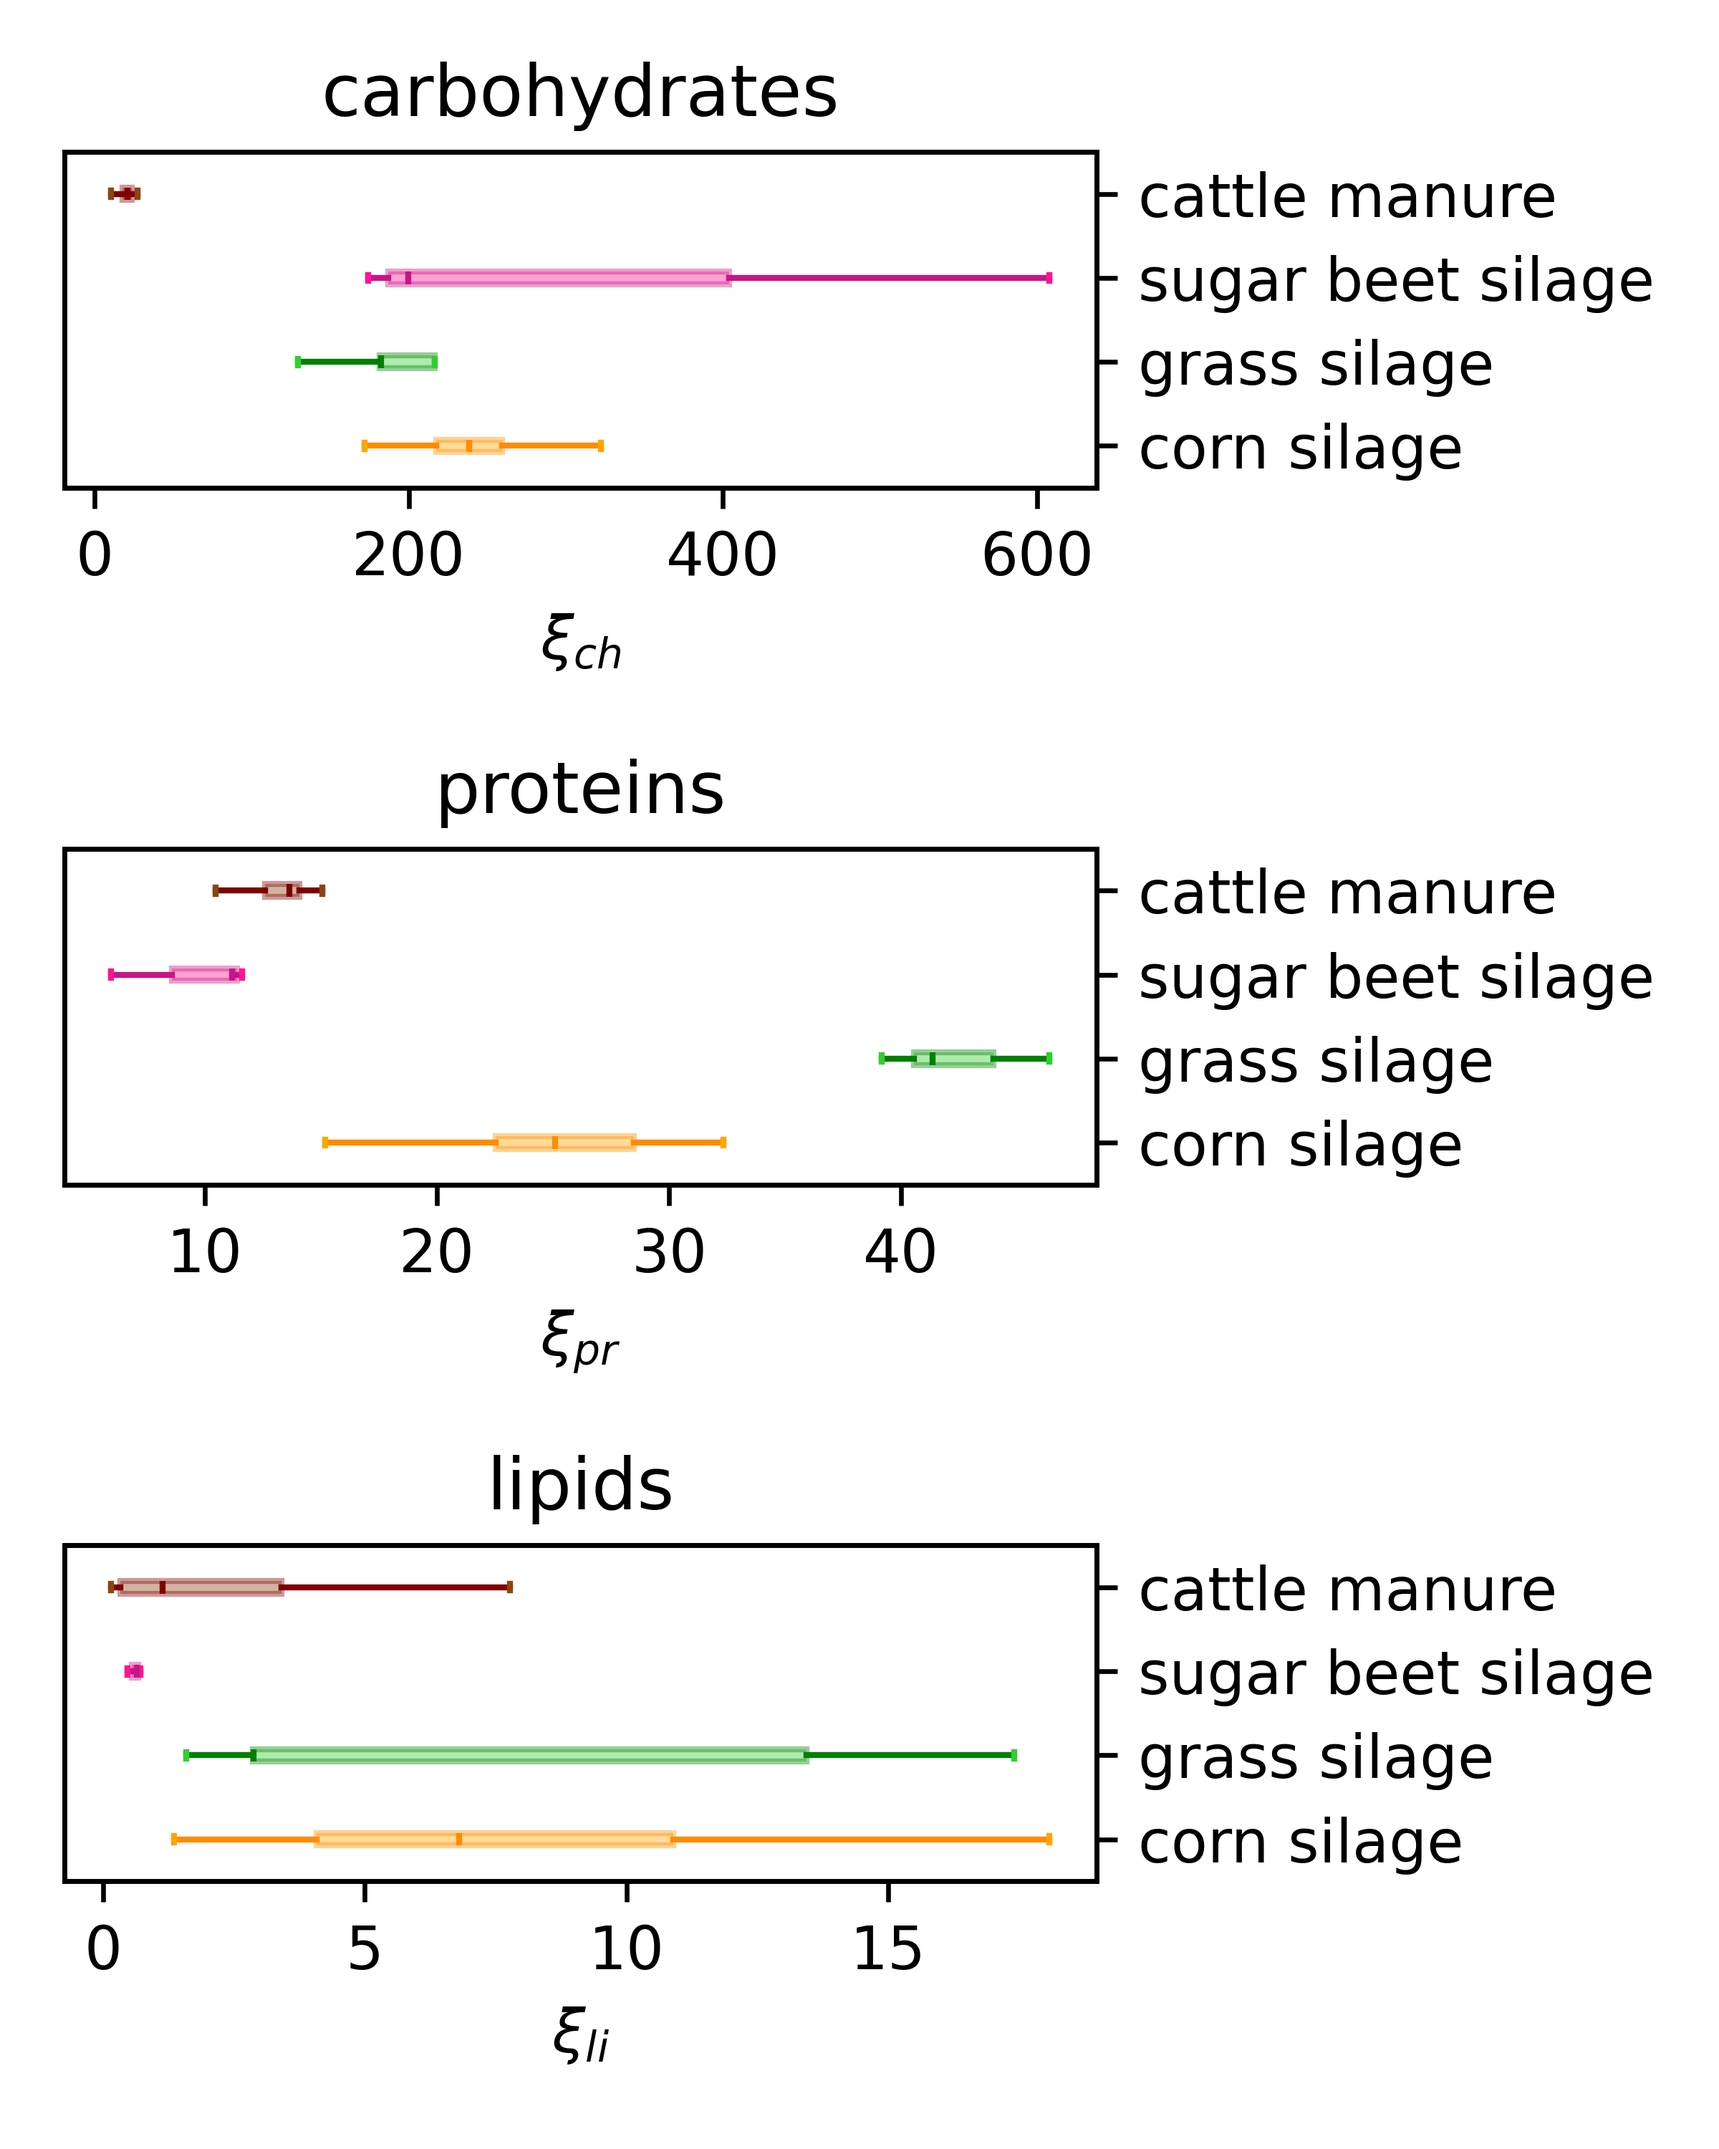
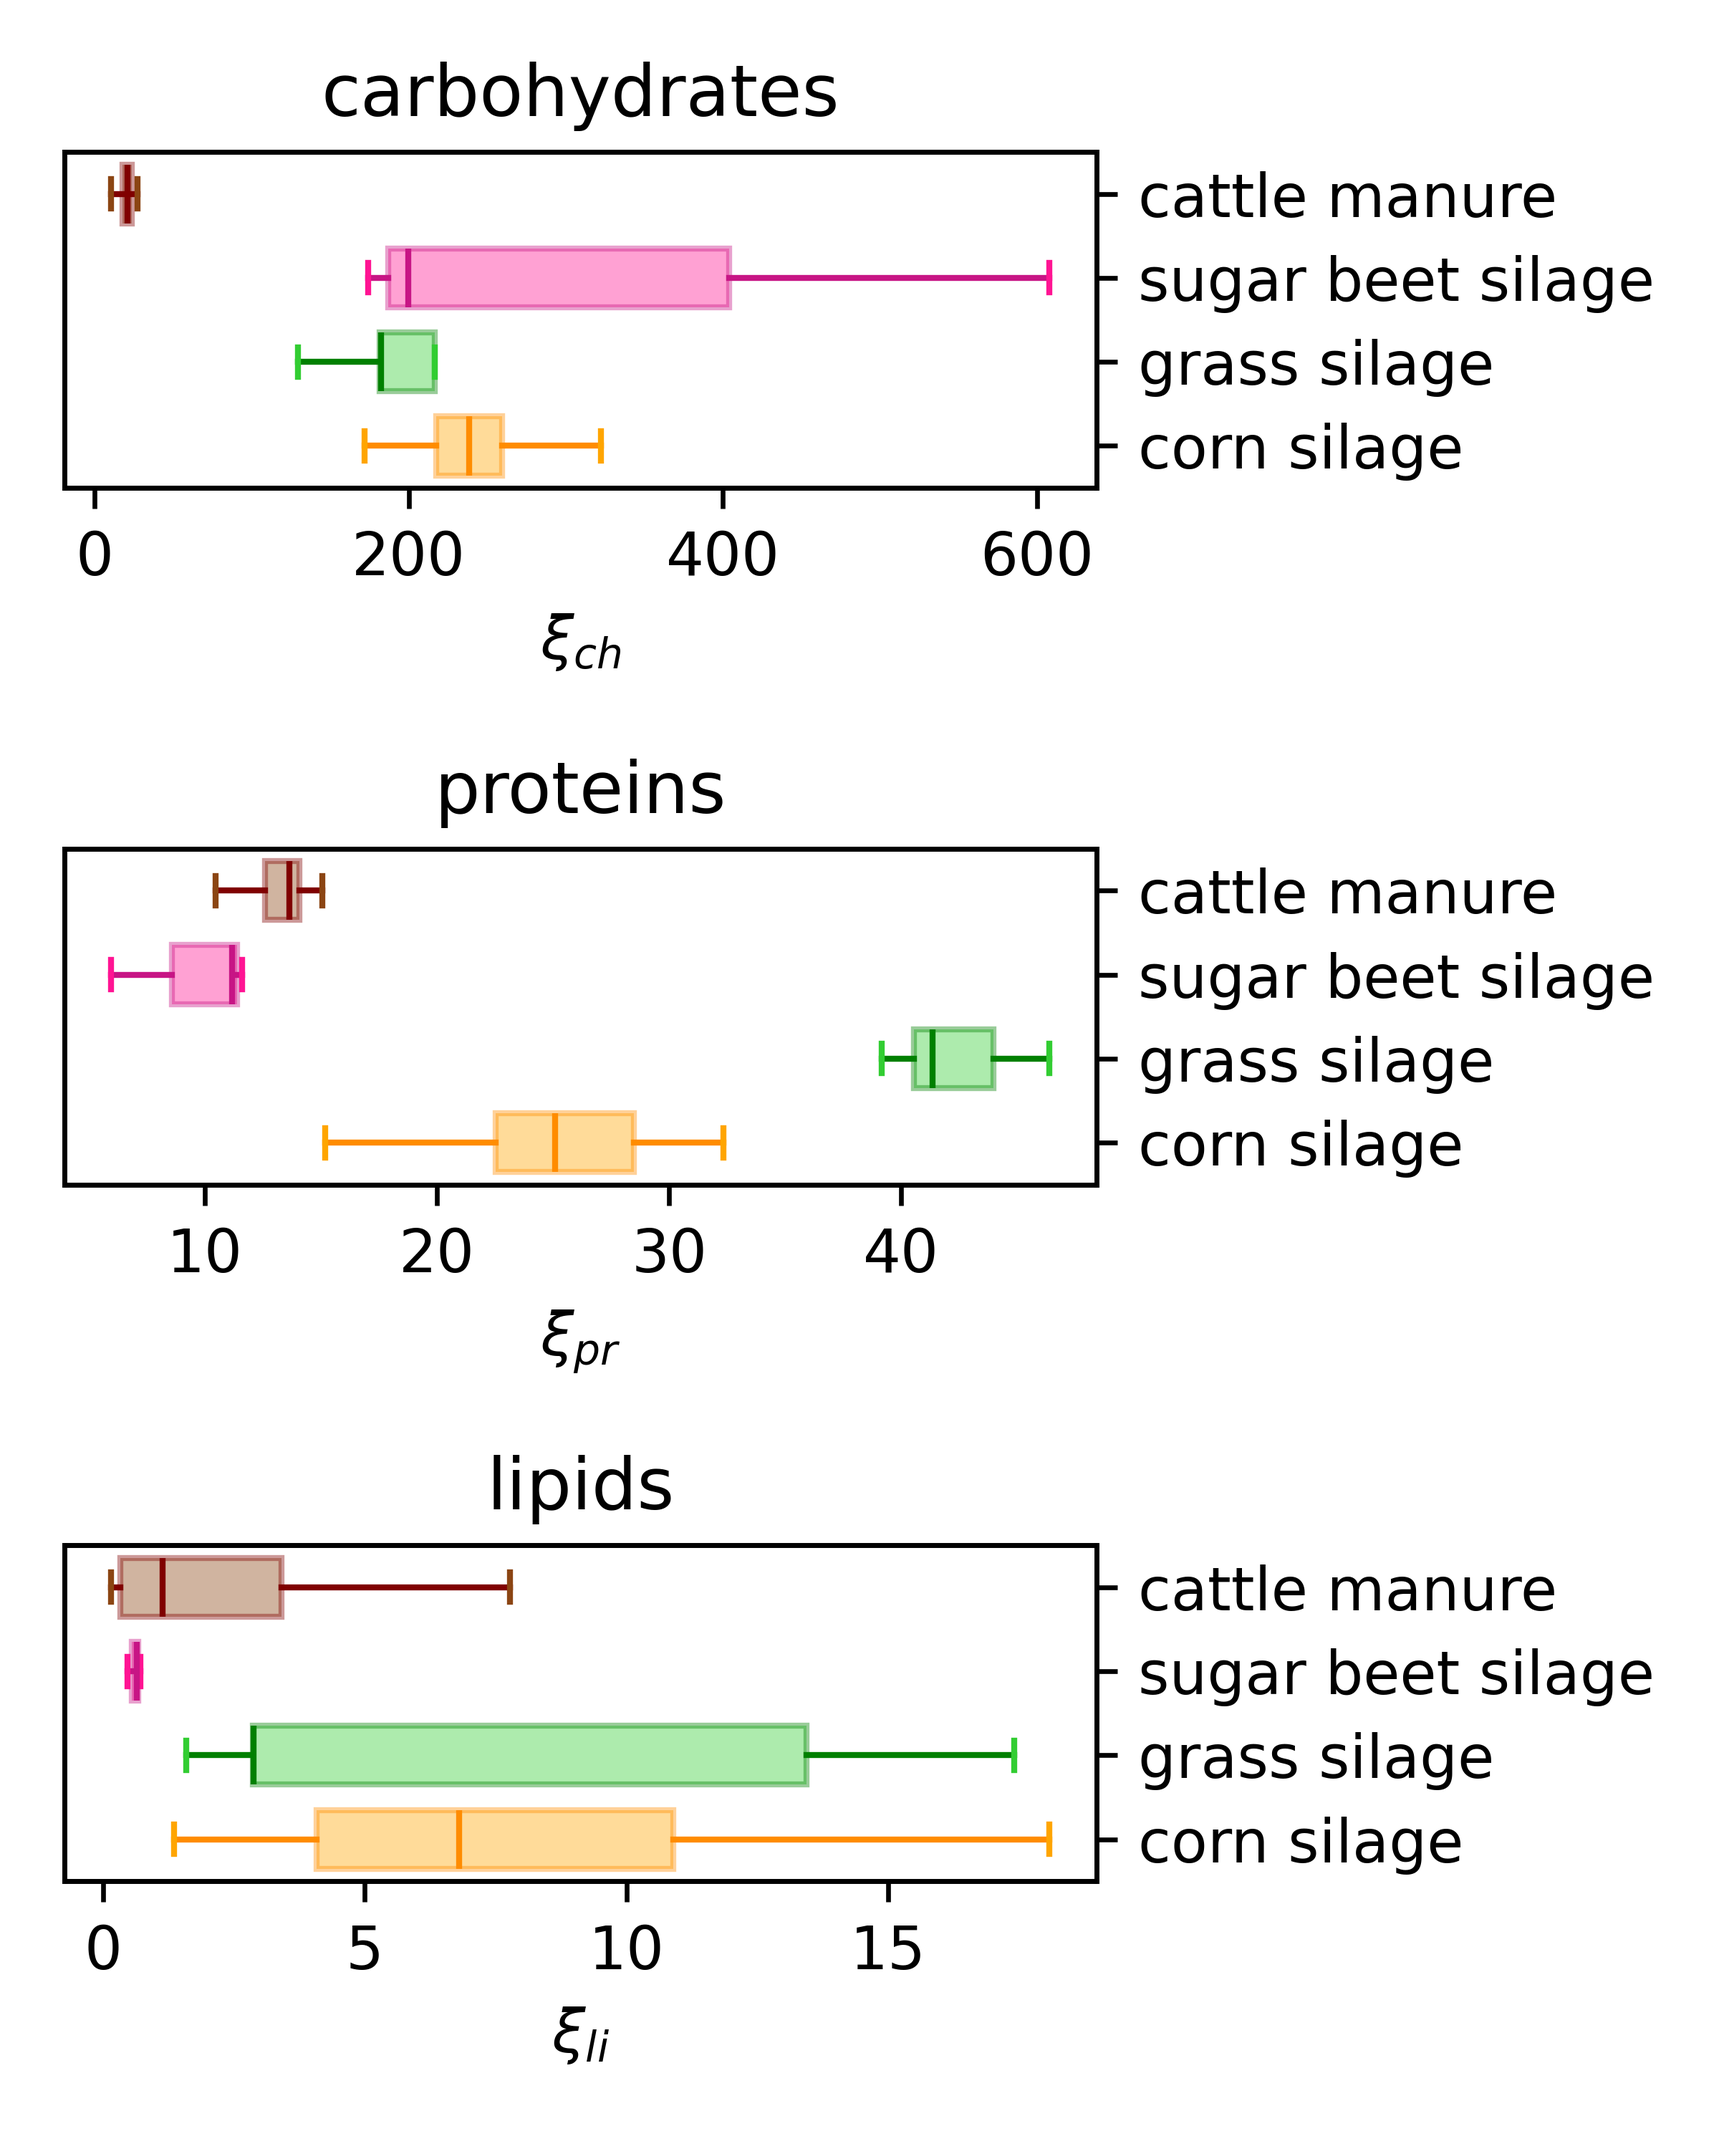
merge normal distributions and boxplots

diff --git a/ad_meal_prep_control/plot_generation/plot_xi_distributions_and_boxplots.py b/ad_meal_prep_control/plot_generation/plot_xi_distributions_and_boxplots.py
@@ -1,0 +1,171 @@
+import numpy as np
+import seaborn as sns
+import matplotlib.pyplot as plt
+import pandas as pd
+from scipy.stats import norm
+from pathlib import Path
+from matplotlib import colors
+from ad_meal_prep_control.utils import Scenario
+from ad_meal_prep_control import substrates
+
+### preliminaries:
+substrate_names = [
+    "CORN_SILAGE",
+    "GRASS_SILAGE",
+    "SUGAR_BEET_SILAGE",
+    "CATTLE_MANURE",
+]
+n_substrates = len(substrate_names)
+
+substrate_colors = {
+    "CORN_SILAGE": "orange",
+    "GRASS_SILAGE": "limegreen",
+    "SUGAR_BEET_SILAGE": "deeppink",
+    "CATTLE_MANURE": "saddlebrown",
+}
+substrate_colors_dark = {
+    "CORN_SILAGE": "darkorange",
+    "GRASS_SILAGE": "green",
+    "SUGAR_BEET_SILAGE": "mediumvioletred",
+    "CATTLE_MANURE": "maroon",
+}
+
+### get data
+## theoretical data:
+# load input concentrations from excel:
+file_path = '../../data/data_out/v2023/nominal_inlet_concentrations.xlsx'
+macro_nutrients_data = pd.read_excel(file_path)
+
+# Extract macro nutrients from excel:
+substrate_cols = ['Maissilage', 'Grassilage', 'Zuckerruebensilage', 'Rinderguelle']
+carbs = macro_nutrients_data.loc[5, substrate_cols].values
+proteins = macro_nutrients_data.loc[7, substrate_cols].values
+lipids = macro_nutrients_data.loc[8, substrate_cols].values
+
+means_all = {  # ignore cattle manure very uncertain
+    "ch": carbs,
+    "pr": proteins,
+    "li": lipids,
+}
+
+std_devs_all = {
+    "ch": [40.085336, 36.613181, 49.423171, 5.378375],
+    "pr": [1.540789, 2.473993, 0.560114, 0.778969],
+    "li": [0.817209, 0.780554, 0.062160, 0.205133],
+}
+
+## measured data:
+# Read all sheets into a dictionary of DataFrames
+excel_file = '../../data/data_out/v2023/macro_nutrients_concentrations.xlsx'
+all_sheets = pd.read_excel(excel_file, sheet_name=None)
+
+df_cornsilage = all_sheets['Maissilage']
+df_grassilage = all_sheets['Grassilage']
+df_sugarbeet = all_sheets['Zuckerruebensilage']
+df_manure = all_sheets['Rinderguelle']
+dfs_substrates = [df_cornsilage, df_grassilage, df_sugarbeet, df_manure]
+
+### draw plot:
+fig, axes = plt.subplots(nrows=len(means_all), ncols=1)
+right_axes = []  # Store the right y-axes for later iteration
+offset_y = 7  # position boxplots shifted vertically
+
+# iterate through subplot windows (ch/pr/li):
+for idx_k, (means, std_devs, ax) in enumerate(zip(means_all.values(), std_devs_all.values(), axes)):
+    axR = ax.twinx()  # instantiate a second Axes that shares the same x-axis
+    # iterate through substrates:
+    for sub_k, mean, std_dev, sub_name in zip(range(n_substrates), means, std_devs, substrate_names):
+        values = np.linspace(mean - 3 * std_dev, mean + 3 * std_dev, 100)  # draw +/- 3 sigmas
+
+        distribution = norm.pdf(values, mean, std_dev)
+
+        # add legend only to first plot
+        if idx_k == 0:
+            sns.lineplot(
+                x=values,
+                y=distribution,
+                ax=ax,
+                # make lowercase, replace "_", add sample size:
+                label=[sub_name.lower().replace("_", " ") + fr" ($N={dfs_substrates[sub_k].shape[0]}$)"],
+                color=substrate_colors[sub_name],
+            )
+        else:
+            sns.lineplot(
+                x=values, y=distribution, ax=ax, color=substrate_colors[sub_name]
+            )
+
+        # add vertical lines at 2 sigmas for each substrate:
+        # for i in [-1, 1]:
+        #    ax.vlines(
+        #        x=mean + 2.0 * i * std_dev,
+        #        ymin=0,
+        #        ymax=max(distribution),
+        #        color=colors.to_rgba(substrate_colors[sub_name]),
+        #    )
+
+        # add vertical blue lines at 1.5 sigmas:
+        # ax.vlines(
+        #    x=mean + 1.5 * i * std_dev,
+        #    ymin=0,
+        #    ymax=max(distribution),
+        #    color="blue",
+        # )
+
+        # add transparent color fill into normal plots:
+        ax.fill_between(
+            values,
+            distribution,
+            # where=(values > mean - 2.0 * std_dev) & (values < mean + 2.0 * std_dev),
+            color=colors.to_rgba(substrate_colors[sub_name]),
+            alpha=0.4,
+        )
+
+        # add boxplots:
+        axR.boxplot(dfs_substrates[sub_k].iloc[:, idx_k],
+                    vert=False,  # horizontal boxplots
+                    patch_artist=True,
+                    boxprops=dict(facecolor=substrate_colors[sub_name], color=substrate_colors_dark[sub_name],
+                                  alpha=0.4),  # Box fill color with transparency
+                    widths=0.5,
+                    whiskerprops=dict(color=substrate_colors_dark[sub_name]),  # Whisker color
+                    capprops=dict(color=substrate_colors[sub_name]),  # Cap color
+                    medianprops=dict(color=substrate_colors_dark[sub_name]),  # Median line color
+                    positions=[offset_y + sub_k],  # vertical positioning
+                    showfliers=False,  # ignore outliers
+                    # flierprops=dict(marker='o', color='pink', alpha=0.5)  # outlier color
+                    )
+    right_axes.append(axR)  # Store the right y-axis (of complete subplot) for later use
+
+# fig.suptitle("Normalverteilung")
+subtitles = ['carbohydrates', 'proteins', 'lipids']
+for k, ax, axR, nutrient_name in zip(range(len(axes)), axes, right_axes, means_all.keys()):
+    ax.set_xlabel(
+        r"$\xi" + "_" + "{" + f"{nutrient_name}" + "}$ $[\mathrm{g} \mathrm{L}^{-1}]$"
+    )
+    ax.set_ylabel("density")
+    ax.set_title(subtitles[k])
+    ax.grid(True, linestyle="--")
+    # axR.grid(True, linestyle="--", axis="y")
+    # adjust ylims of both axes:
+    ylim_orig = ax.get_ylim()
+    ax.set_ylim(ylim_orig[0], ylim_orig[1] * 1.5)
+    axR.set_ylim([0, offset_y + 4])
+    axR.set_axis_off()  # mute right ylabels
+    # axR.set_yticks(list(range(7, 7+4)), substrate_names)  # Set y-ticks for groups
+
+axes[0].legend(ncols=2, loc="lower right", bbox_to_anchor=(1, 0.2))  # make legend 2-column
+
+fig.set_size_inches(w=8, h=8)
+fig.tight_layout()
+fig.savefig(
+    fname=str(
+        Path(
+            "../../results",
+            "plots",
+            f"xi_pdfs_and_boxplots.png",
+        )
+    ),
+    dpi=600,
+    format="png",
+)
+plt.show()

diff --git a/ad_meal_prep_control/plot_generation/horizontal_boxplot_macronutrients.py b/ad_meal_prep_control/plot_generation/horizontal_boxplot_macronutrients.py
@@ -39,16 +39,17 @@ right_axes = []  # Store the right y-axes for later iteration
 for k, ax in enumerate(axes):
     axR = ax.twinx()  # instantiate a second Axes that shares the same x-axis
     # iterate over substrates:
-    for subk in range(len(dfs_substrates)):
-        axR.boxplot(dfs_substrates[subk].iloc[:, k],
+    for sub_k in range(len(dfs_substrates)):
+        axR.boxplot(dfs_substrates[sub_k].iloc[:, k],
                     vert=False,  # horizontal boxplots
                     patch_artist=True,
-                    boxprops=dict(facecolor=sub_colors[subk], color=sub_colors_dark[subk], alpha=0.4),
-                    # Box fill color with transparency
-                    whiskerprops=dict(color=sub_colors_dark[subk]),  # Whisker color
-                    capprops=dict(color=sub_colors[subk]),  # Cap color
-                    medianprops=dict(color=sub_colors_dark[subk]),  # Median line color
-                    positions=[subk],
+                    # Box fill color with transparency:
+                    boxprops=dict(facecolor=sub_colors[sub_k], color=sub_colors_dark[sub_k], alpha=0.4),
+                    widths=0.7,
+                    whiskerprops=dict(color=sub_colors_dark[sub_k]),  # Whisker color
+                    capprops=dict(color=sub_colors[sub_k]),  # Cap color
+                    medianprops=dict(color=sub_colors_dark[sub_k]),  # Median line color
+                    positions=[sub_k],
                     showfliers=False,  # ignore outliers
                     # flierprops=dict(marker='o', color='pink', alpha=0.5)  # outlier color
                     )
